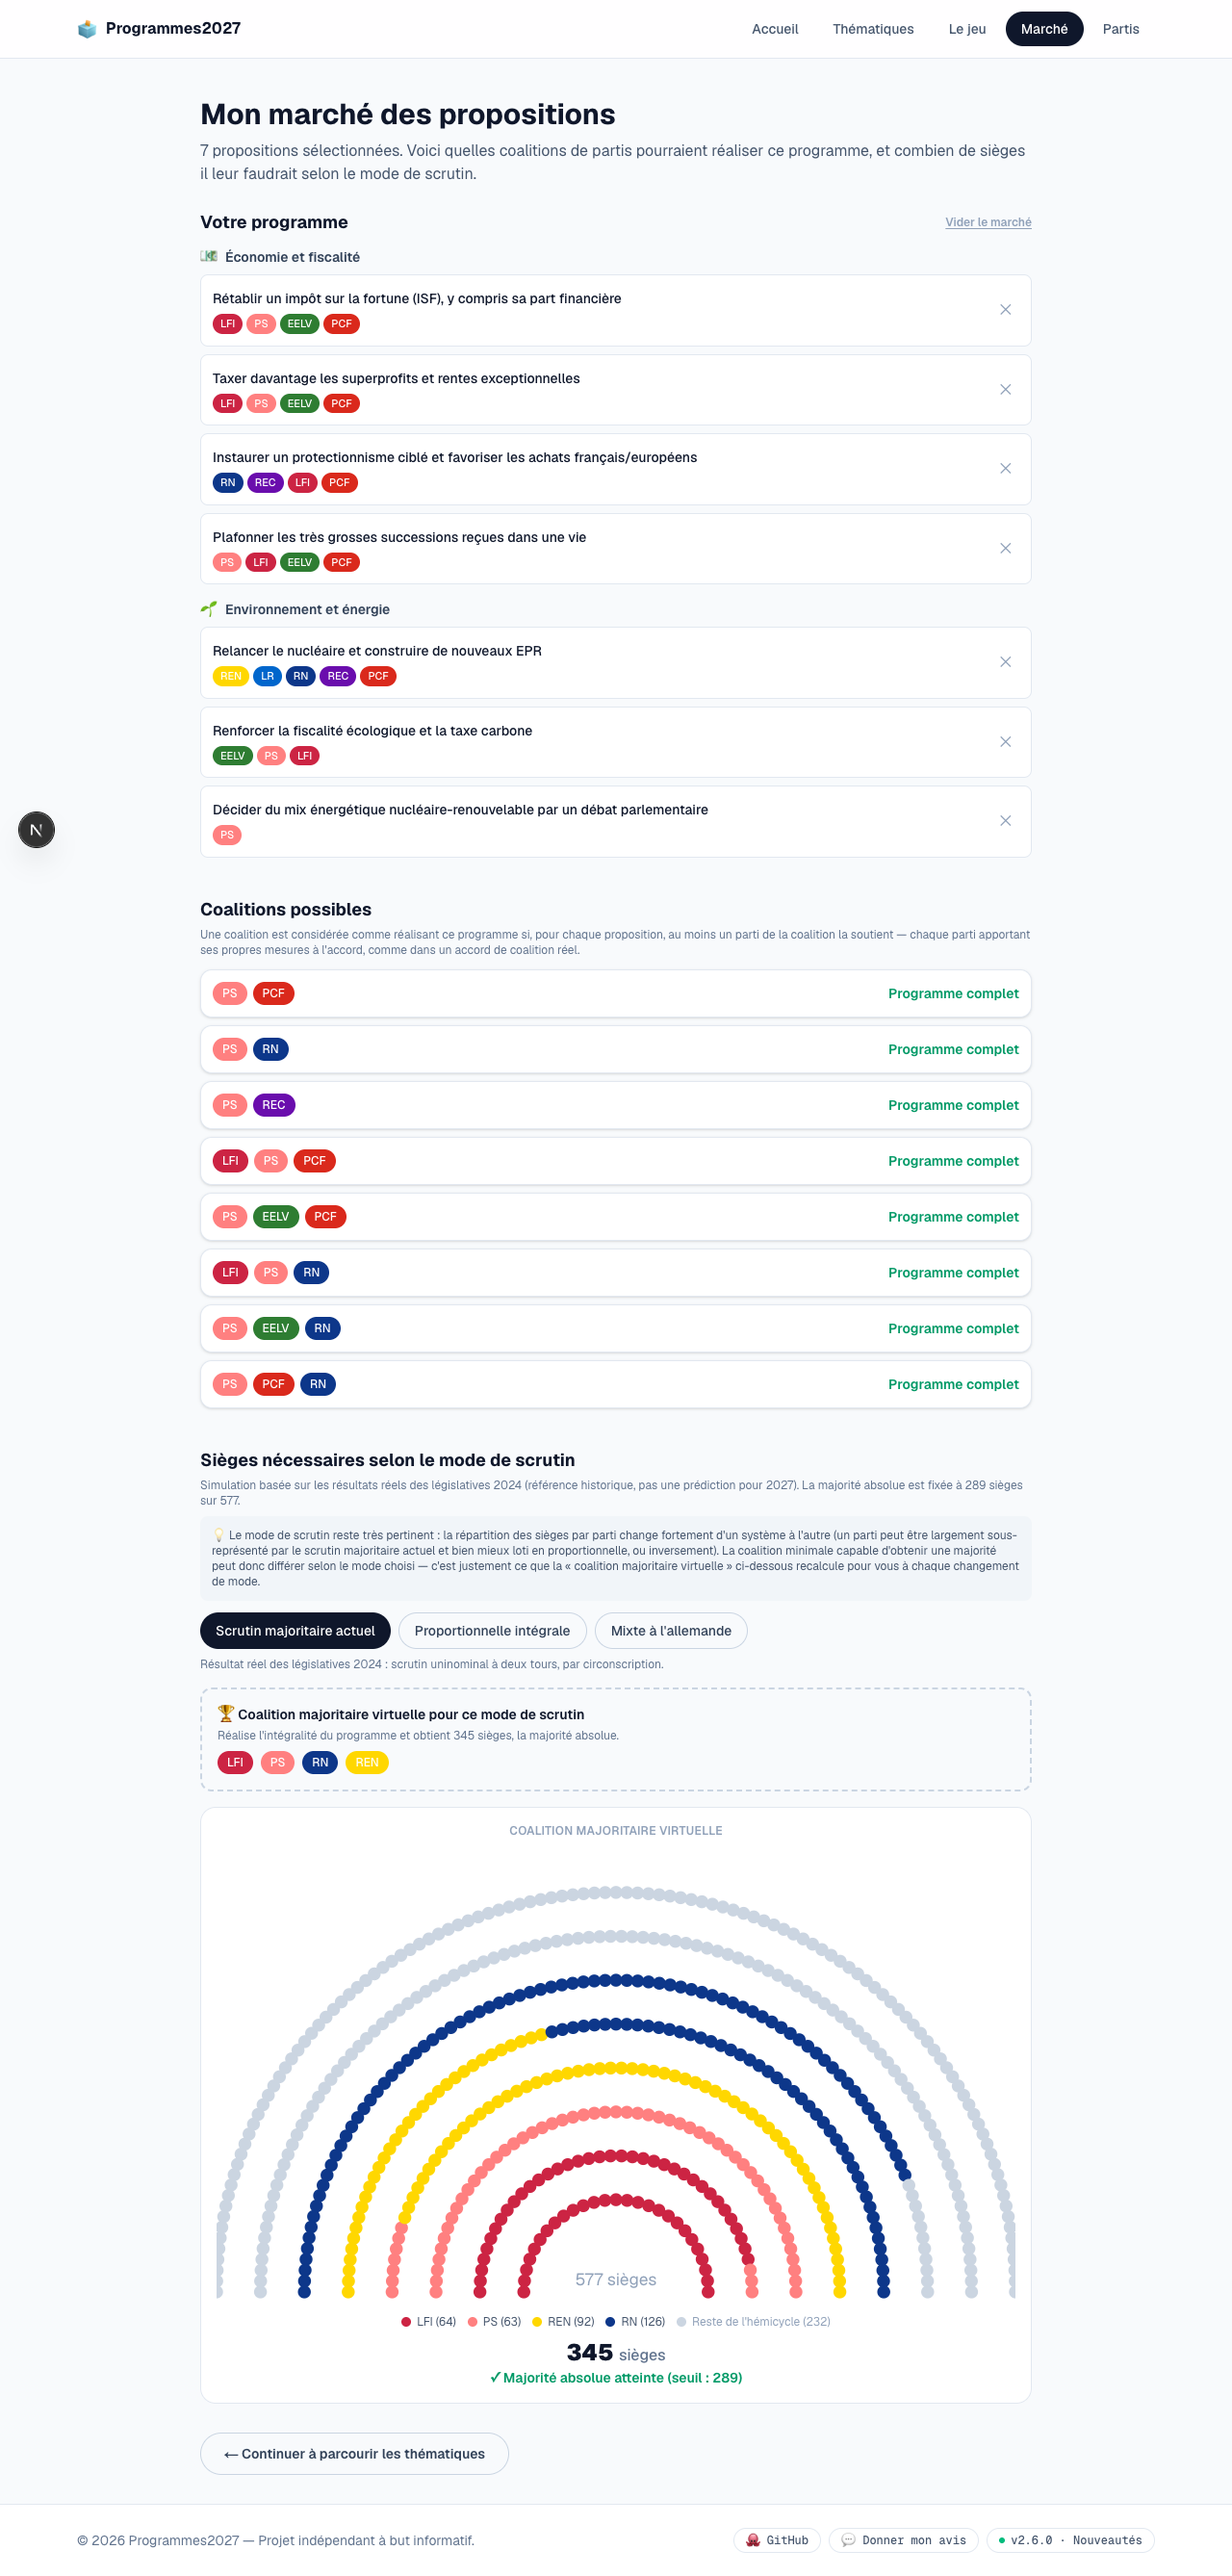
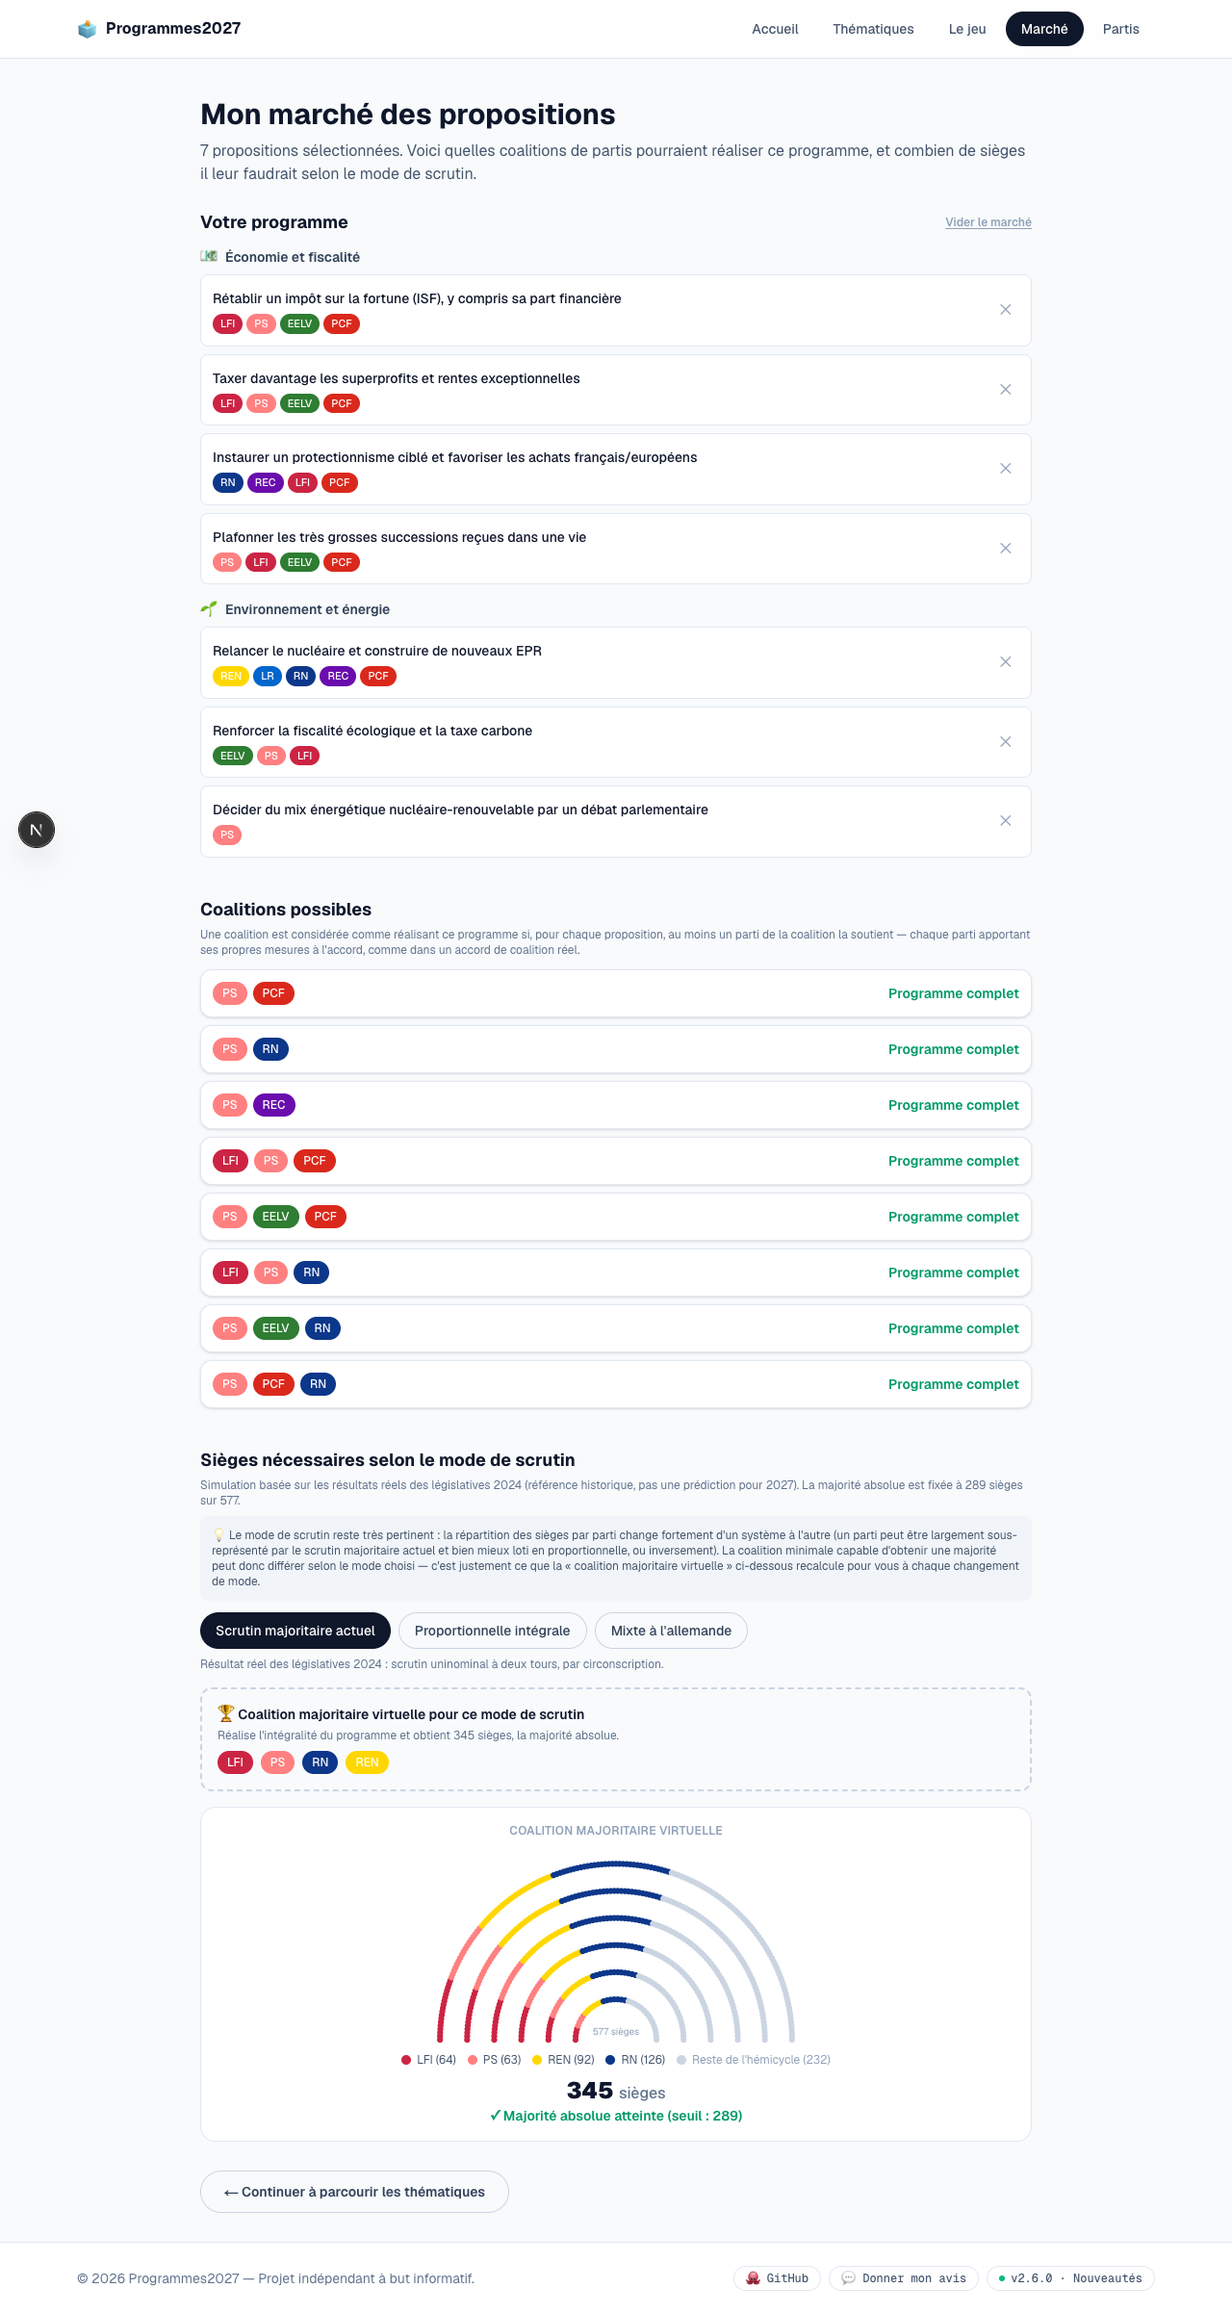
Fix hemicycle to render party wedges instead of concentric rings

diff --git a/src/components/Hemicycle.tsx b/src/components/Hemicycle.tsx
@@ -33,14 +33,13 @@ const POLITICAL_ORDER: PartyId[] = [
 /**
  * Hemicycle visualization inspired by Le Monde's coalition simulator
  * (https://www.lemonde.fr/les-decodeurs/.../simulateur-de-coalition):
- * rather than showing every party in its "natural" seat block and
- * dimming the ones outside the coalition, seats belonging to the
- * coalition are packed together from the left, in political order, and
- * every other seat (any party not in the coalition, plus the "autres"
- * bloc) is grouped as a single grey mass on the right. This makes it
- * immediately visible how much of the hemicycle the coalition actually
- * fills, rather than requiring the reader to mentally sum scattered
- * colored dots.
+ * one dot per seat, arranged in concentric arcs from the center outward,
+ * but colored by *angular* position (not by row-fill order) so each
+ * party forms a contiguous radial wedge — like a slice of the half-pie —
+ * spanning from the inner arc to the outer arc, instead of a concentric
+ * ring. Coalition parties are packed left-to-right in political order;
+ * every seat outside the coalition (any other party, plus the "autres"
+ * bloc) is a single grey wedge on the right.
  */
 export function Hemicycle({
   seatsByParty,
@@ -83,53 +82,65 @@ export function Hemicycle({
         ...(inactiveCount > 0 ? [{ id: "inactifs", color: OTHER_COLOR, count: inactiveCount }] : []),
       ];
 
-  // Flatten into a single ordered list of per-seat colors, coalition
-  // (or all parties) first, grey mass last.
-  const seatColors: string[] = [];
-  for (const b of blocks) {
-    for (let i = 0; i < b.count; i++) seatColors.push(b.color);
+  const totalCount = blocks.reduce((sum, b) => sum + b.count, 0) || 1;
+
+  // Cumulative angular range (0-1 fraction of the half-circle) for each
+  // block, used to color a seat by its angular position `t` rather than
+  // by the order it was filled in — this is what makes each party a
+  // clean radial wedge instead of a concentric ring.
+  let cumulative = 0;
+  const blocksWithRange = blocks.map((b) => {
+    cumulative += b.count;
+    return { ...b, end: cumulative / totalCount };
+  });
+
+  function colorForFraction(t: number): string {
+    for (const b of blocksWithRange) {
+      if (t <= b.end) return b.color;
+    }
+    return OTHER_COLOR;
   }
 
-  const rows = 8;
-  const width = 520;
-  const height = 300;
+  // Compact layout: fewer rows and a smaller canvas than a full
+  // seat-by-seat Assemblée diagram, while keeping one dot per seat.
+  const rows = 6;
+  const width = 420;
+  const height = 230;
   const cx = width / 2;
   const cy = height - 10;
-  const rMin = 60;
-  const rMax = 260;
+  const rMin = 46;
+  const rMax = 200;
+  const dotRadius = 3.4;
 
   // Distribute seats across rows roughly proportionally to each arc's
   // circumference, so density looks even.
   const rowRadii = Array.from({ length: rows }, (_, i) => rMin + (i * (rMax - rMin)) / (rows - 1));
-  const rowWeights = rowRadii.map((r) => r);
-  const totalWeight = rowWeights.reduce((s, w) => s + w, 0);
-  const seatsPerRow = rowWeights.map((w) =>
-    Math.max(1, Math.round((w / totalWeight) * seatColors.length))
-  );
+  const totalWeight = rowRadii.reduce((s, r) => s + r, 0);
+  const seatsPerRow = rowRadii.map((r) => Math.max(1, Math.round((r / totalWeight) * totalCount)));
 
   const seatNodes: Array<{ x: number; y: number; color: string }> = [];
-  let seatIndex = 0;
+  let seatsPlaced = 0;
   for (let row = 0; row < rows; row++) {
     const r = rowRadii[row];
-    const count = row === rows - 1 ? seatColors.length - seatIndex : seatsPerRow[row];
-    for (let i = 0; i < count && seatIndex < seatColors.length; i++, seatIndex++) {
+    const count = row === rows - 1 ? totalCount - seatsPlaced : seatsPerRow[row];
+    for (let i = 0; i < count && seatsPlaced < totalCount; i++, seatsPlaced++) {
       const t = count === 1 ? 0.5 : i / (count - 1);
       const angle = Math.PI - t * Math.PI; // left (PI) to right (0)
       const x = cx + r * Math.cos(angle);
       const y = cy - r * Math.sin(angle);
-      seatNodes.push({ x, y, color: seatColors[seatIndex] });
+      seatNodes.push({ x, y, color: colorForFraction(t) });
     }
   }
 
   return (
     <div>
-      <svg viewBox={`0 0 ${width} ${height}`} className="w-full" role="img" aria-label="Hémicycle">
+      <svg viewBox={`0 0 ${width} ${height}`} className="mx-auto w-full max-w-sm" role="img" aria-label="Hémicycle">
         {seatNodes.map((s, i) => (
-          <circle key={i} cx={s.x} cy={s.y} r={4.2} fill={s.color} />
+          <circle key={i} cx={s.x} cy={s.y} r={dotRadius} fill={s.color} />
         ))}
         <text
           x={cx}
-          y={cy - 4}
+          y={cy - 6}
           textAnchor="middle"
           className="fill-slate-400"
           style={{ fontSize: 11 }}
@@ -138,28 +149,20 @@ export function Hemicycle({
         </text>
       </svg>
 
-      {!noHighlight && (
-        <div className="mt-2 flex flex-wrap items-center justify-center gap-x-3 gap-y-1">
-          {coalitionBlocks.map((b) => (
-            <span key={b.id} className="flex items-center gap-1.5 text-xs text-slate-600">
-              <span
-                className="h-2.5 w-2.5 rounded-full"
-                style={{ backgroundColor: b.color }}
-              />
-              {partyById[b.id as PartyId].shortName} ({b.count})
-            </span>
-          ))}
-          {inactiveCount > 0 && (
-            <span className="flex items-center gap-1.5 text-xs text-slate-400">
-              <span
-                className="h-2.5 w-2.5 rounded-full"
-                style={{ backgroundColor: OTHER_COLOR }}
-              />
-              Reste de l&apos;hémicycle ({inactiveCount})
-            </span>
-          )}
-        </div>
-      )}
+      <div className="mt-1 flex flex-wrap items-center justify-center gap-x-3 gap-y-1">
+        {(noHighlight ? blocks : coalitionBlocks).map((b) => (
+          <span key={b.id} className="flex items-center gap-1.5 text-xs text-slate-600">
+            <span className="h-2.5 w-2.5 rounded-full" style={{ backgroundColor: b.color }} />
+            {b.id === "autres" ? "Autres" : partyById[b.id as PartyId].shortName} ({b.count})
+          </span>
+        ))}
+        {!noHighlight && inactiveCount > 0 && (
+          <span className="flex items-center gap-1.5 text-xs text-slate-400">
+            <span className="h-2.5 w-2.5 rounded-full" style={{ backgroundColor: OTHER_COLOR }} />
+            Reste de l&apos;hémicycle ({inactiveCount})
+          </span>
+        )}
+      </div>
     </div>
   );
 }
